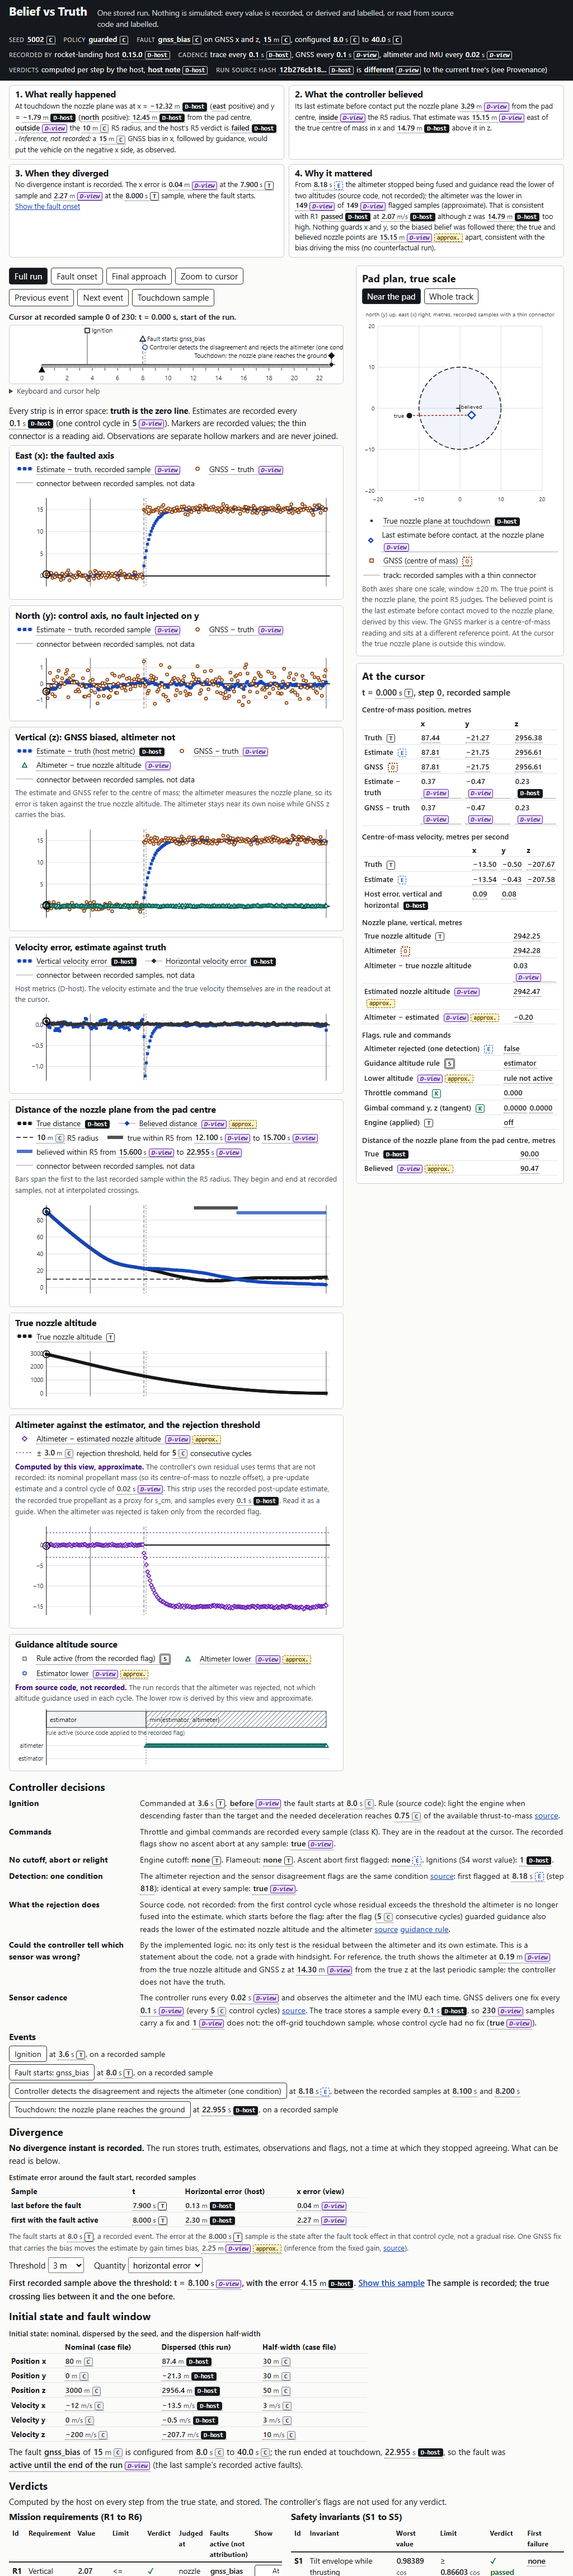
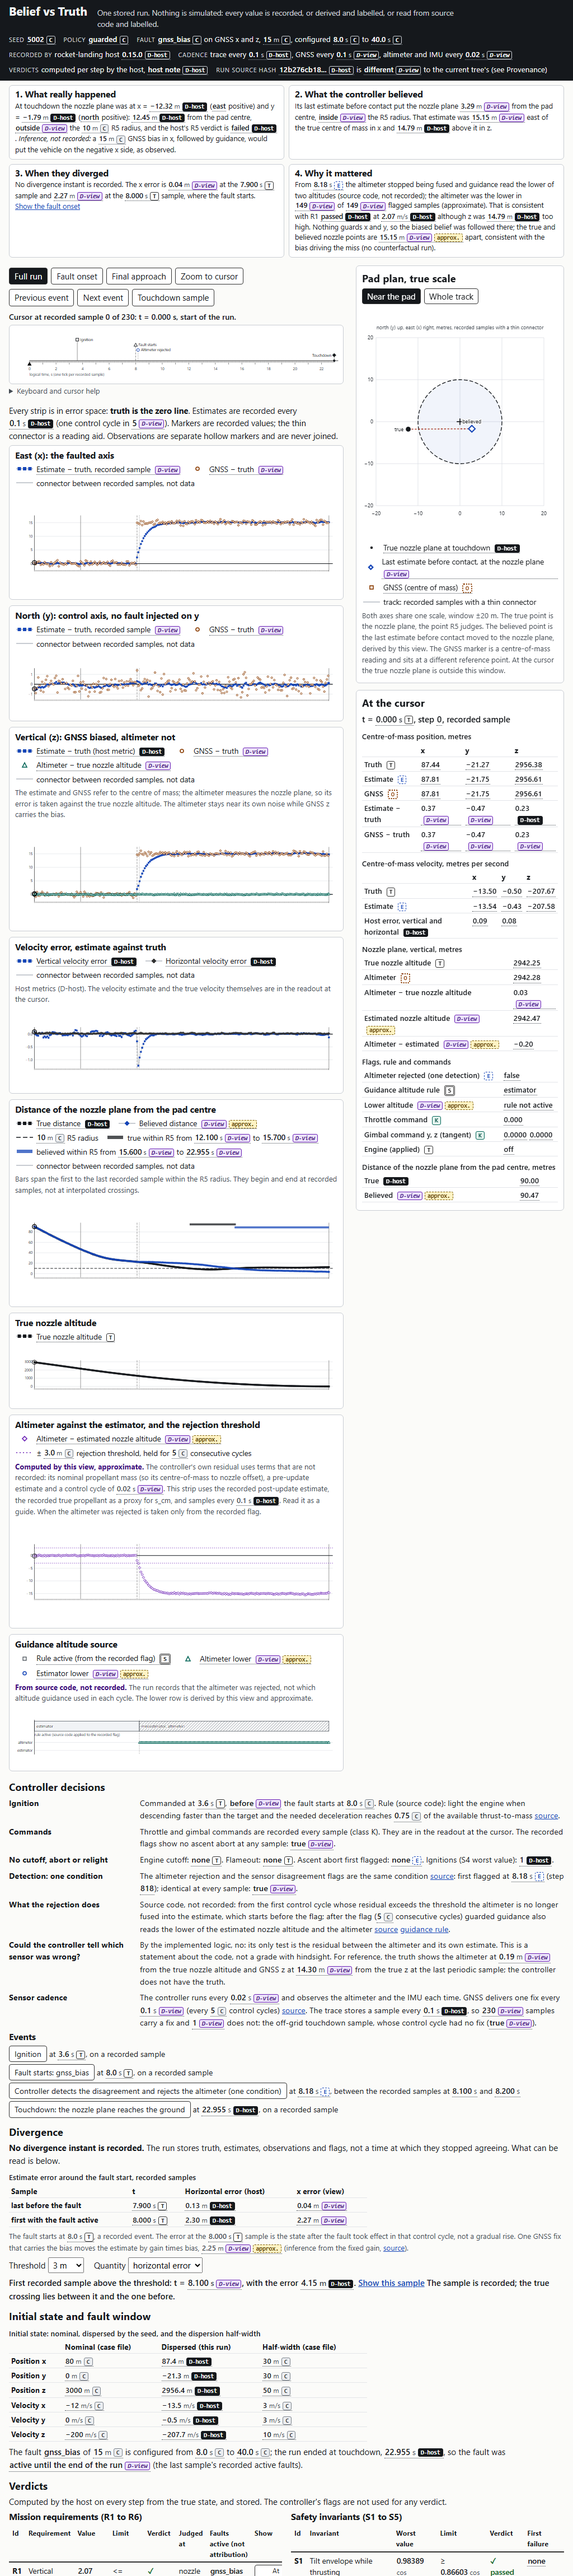
docs: iteração 2 do Belief vs Truth, capturas e estado do que fica por resolver

diff --git a/docs/m19-2-belief-truth.md b/docs/m19-2-belief-truth.md
@@ -2,7 +2,7 @@
 
 Protótipo isolado, em `spikes/m19-belief-truth/`. Não altera o Studio nem nenhum crate. Não simula nada: lê uma corrida guardada e mostra, lado a lado, o que aconteceu, o que o controlador acreditava, quando os dois divergiram e porque isso importou.
 
-Estado: iteração 1 construída e verificada no ramo `prototype/m19.2-belief-truth`, só localmente. Não foi avaliada por utilizadores nem pela revisão independente.
+Estado: iteração 2 (a última substantiva) construída e verificada no ramo `prototype/m19.2-belief-truth`, só localmente. A iteração 1 foi avaliada por um crítico de UX independente e por uma verificação de compreensão feita por agentes (não é um estudo com pessoas). A iteração 2 responde a essa avaliação e ainda não foi reavaliada. As secções abaixo descrevem a iteração 1; a secção "Iteração 2", no fim, diz o que mudou e o que ficou por resolver e prevalece sobre elas quando divergem.
 
 ## Tese
 
@@ -44,6 +44,7 @@ Cada número e cada elemento visual traz uma etiqueta. As etiquetas têm texto e
 | D-host | Derivada pelo anfitrião 0.15.0 e guardada (veredictos, métricas do anfitrião, amostra de toque interpolada) |
 | D-view | Derivada por esta vista (extrator), com a derivação nomeada |
 | S | Do código-fonte, não guardada na corrida |
+| K | Comando do controlador, guardado em `command` no traço (acelerador, cardan). Acrescentada na iteração 2, para manter separados o estado real, as observações e as decisões do controlador |
 | C | Configuração da missão em `case.json`. Acrescentada às classes pedidas, porque a configuração não é verdade nem estimativa |
 
 Mais o aviso visível **U: nenhuma**. Este estimador não tem incerteza (ganhos fixos, sem covariância). Os sigmas de `case.json` são o ruído do simulador, não a crença do controlador sobre o próprio erro, e não se desenham envelopes com eles.
@@ -85,7 +86,7 @@ O que a corrida mostra, lido da vista: antes da falha a estimativa ficou a 0,40 
 - A amostra de toque está fora da grelha. A verdade é o estado de contacto interpolado pelo anfitrião (D-host); a estimativa e a observação são do último ciclo de controlo antes do contacto, não do instante do toque. A vista rotula o ponto acreditado como "última estimativa antes do contacto".
 - O resíduo e a posição acreditada do bocal usam o substituto de `s_cm`, a estimativa guardada depois da atualização e amostras de 0,1 s. A concordância antes da falha (resíduo máximo de 0,25 m, contra um limiar de 3 m) apoia o substituto, mas não o prova para o `s_cm` do controlador.
 - Sem covariância: não há incerteza para mostrar. Sem contrafactual: não há prova de causa.
-- As linhas das estimativas unem amostras consecutivas por segmentos retos. É um traço de leitura entre valores guardados; nenhum valor entre amostras é lido ou mostrado.
+- Na iteração 1 as linhas das estimativas uniam amostras consecutivas e sugeriam uma subida gradual entre 7,9 s e 8,0 s. Foi corrigido na iteração 2 (marcador em cada amostra e conector fino, rotulado como ajuda de leitura).
 - Os factos de código ficam presos ao commit `bec7b3f`: se `landing_controller.rs` e os vizinhos mudarem, o teste falha até o extrator ser reexecutado e os factos revistos.
 
 ## Como executar
@@ -116,3 +117,41 @@ Teclado: no eixo do tempo, Esquerda e Direita avançam uma amostra, Shift com se
 - O plano mostra apenas a janela de ±20 m. Com o cursor fora da janela, o plano diz que o ponto verdadeiro está fora e não o desenha.
 - A vista não permite comparar duas corridas, nem mostra o que teria acontecido sem a falha.
 - A aproximação do resíduo poderia ser medida contra uma corrida que guarde o resíduo interno do controlador; esta não o guarda.
+
+
+## Iteração 2
+
+Resposta à avaliação da iteração 1: não enganou nas armadilhas centrais, mas a compreensão ficou abaixo do limiar porque a mecânica do controlador estava pouco explicada. Mantêm-se o SVG 2D (sem Three.js; o crítico confirma que não há vantagem material), a classe C e a formulação "gravado pelo anfitrião rocket-landing 0.15.0". A vista continua a não simular nada.
+
+Mudanças, por prioridade:
+
+1. **Marcadores por amostra (bloqueador).** As tiras das estimativas ligavam as amostras de 7,9 s e 8,0 s e desenhavam divergência antes da falha. Agora cada amostra guardada tem um marcador, o conector é fino e a legenda diz "connector between recorded samples, not data". O texto das tiras diz que as estimativas são guardadas a cada 0,1 s (um ciclo de controlo em cinco) e que os marcadores são valores guardados. Na amostra de 8,0 s a vista explica que o erro de 2,27 m é o estado depois de a falha ter feito efeito nesse ciclo e não uma subida gradual, e mostra o salto esperado de um fix GNSS com desvio (ganho vezes desvio, 2,25 m, inferência do ganho fixo).
+2. **Etiqueta de classe no toque.** `err_est_x` e `err_est_y` deixam de ser D-host na amostra de toque: ficam D-view, e a gaveta diz "computado contra a verdade interpolada pelo anfitrião". A verdade e a velocidade verdadeira dessa amostra continuam D-host.
+3. **Proveniência da build.** O `extract.py` calcula, sem git, o hash dos 20 ficheiros do `vv-rocket` pelo algoritmo de `crates/vv-rocket/src/lib.rs` (CRLF lido como LF) e compara-o com o `source_sha256` da corrida (`12b276cb...`): são **diferentes**. Difere apenas `src/landing_model.rs`. Os hashes por ficheiro da árvore do commit `3962482` estão fixados no extrator; o teste prova com git que essa árvore reproduz o hash gravado (diz-se que a árvore o reproduz, não que construiu a corrida) e que os valores fixados coincidem com o git. Todos os ficheiros de simulador citados pela vista (controlador, sensores, simulação, verdade, verificador) são idênticos aos dessa árvore. A versão não chega para identificar a build: a corrida regista a versão `0.15.0` e a árvore atual também declara `0.15.0` (`domain.json`), mas o pedido guardado tem 6 parâmetros e o catálogo atual tem mais. O replay estrito é rejeitado ("stored request is valid and canonical"); o replay de "build anterior" volta a simular com os valores por omissão atuais e concorda nos campos comparados (resultado, segurança, veredictos, canais, eventos, métricas; textos, cena e ficheiros nativos não se comparam). O teste `earlier_build.rs` foi executado de novo nesta iteração (`1 passed; 0 failed`, ver `docs/evidence/m19/belief-truth/iteration-2/cargo-earlier-build.txt`). O teste das linhas fixas do código-fonte diz agora, ao falhar, para repetir o `extract.py`.
+4. **Cadência dos sensores.** GNSS um fix por 0,1 s (cinco ciclos de controlo, `gnss_period_cycles`), altímetro e IMU a cada ciclo de 0,02 s, amostras do traço a cada 0,1 s. A amostra de toque, fora da grelha, mostra "no fix on this cycle" onde o GNSS é nulo (230 amostras com fix, uma sem).
+5. **Decisões do controlador.** Nova secção: ignição comandada às 3,6 s (antes da falha; regra do código-fonte com a fração de ignição), comandos guardados (classe K, no painel do cursor), sem corte, aborto nem reacendimento (`cutoff_t_s`, `flameout_t_s` e `ascent_abort_first` nulos; S4 igual a 1). `sensor_disagreement` e `altimeter_rejected` são a mesma condição (`landing_controller.rs`, `sensor_disagreement: ...then_some(self.rejected)`) e aparecem como uma só deteção. A rejeição significa duas coisas, do código-fonte e não guardadas: o altímetro deixa de ser fundido em cada ciclo cujo resíduo excede o limiar (começa antes da bandeira) e, depois de cinco ciclos consecutivos, o guiamento lê o mínimo entre a altitude estimada do bocal e o altímetro. Pela lógica implementada o controlador não podia saber qual dos sensores estava errado (só compara o altímetro com a própria estimativa); a vista diz que é uma afirmação sobre o código, não uma avaliação com retrospetiva.
+6. **Painel de divergência.** "No divergence instant is recorded." Mostra o início da falha, o erro nas amostras de 7,9 s e 8,0 s e um limiar escolhido pelo utilizador (1, 3, 5, 10 m) que dá a primeira amostra guardada acima dele, para o erro horizontal e para o vertical, em D-view (amostra guardada, nunca um cruzamento interpolado).
+7. **Erro de velocidade.** Tira com `err_vz` e `err_vh` do `record.json` (D-host) e as velocidades verdadeira e estimada no painel do cursor. Antes de os rotular como D-host, o extrator verifica em todas as amostras que `err_z`, `err_h`, `err_vz`, `err_vh` e `pad_distance` são as subtrações simples.
+8. **Distância à plataforma e altitude.** Tira com a distância verdadeira (D-host) e a acreditada (D-view, aproximada) do plano do bocal ao centro, com a linha do raio R5 e barras do primeiro ao último ponto guardado dentro do raio: a verdade esteve dentro entre 12,1 s e 15,7 s e saiu, a crença está dentro desde 15,6 s até ao fim. Tira da altitude verdadeira. O plano tem o botão "Whole track" para ver a trajetória inteira e não só os 20 m junto à plataforma.
+9. **Estado inicial e janela da falha.** Quadro nominal (`case.json`) contra disperso (`record.json`) e meia-largura da dispersão. A falha está configurada de 8,0 s a 40,0 s e a corrida terminou ao toque, por isso a falha esteve ativa até ao fim (lido das falhas ativas da última amostra).
+10. **Decisões ligadas aos resultados.** O cartão 4 diz que o altímetro foi o mais baixo em 149 das 149 amostras com a bandeira (aproximado) e que isso é consistente com o veredicto do R1 e a velocidade de 2,07 m/s apesar de a estimativa estar 14,79 m acima da verdade (suavizado para "consistente com"; deixou de dizer "porque"). Cada linha de requisito tem "At touchdown"; o R5 tem também "On the pad plan". R1, R2 e R5 dizem "nozzle plane" (verificado numericamente contra `verification.json` e ancorado em `landing_verify.rs`). A nota do S2 diz que é avaliado no contacto e tem o mesmo número que o R5.
+11. **Convenção de sinais.** "x = -12,32 m (east positive), y = -1,79 m (north positive)", lida do quadro de referência do `record.json`, mais uma frase marcada como inferência (um desvio de 15 m em x seguido pelo guiamento põe o veículo do lado de x negativo).
+12. **Palavras de veredicto vindas dos dados.** Nenhuma palavra de veredicto, nem "inside" ou "outside" junto ao R5, está escrita no HTML ou no JavaScript da página: vêm de um mapa único em `model.js`, escolhidas por um booleano dos dados. Um teste procura essas palavras nas fontes.
+13. **Acessibilidade.** `touch-action: pan-y` nas figuras; a legenda abre a gaveta com o índice do cursor; as células da tabela de amostras são botões com uma só paragem de tabulação e navegação por setas; a etiqueta "approx." aparece em cada valor aproximado, não só em parênteses.
+14. **Hierarquia.** Cartões mais curtos, 2x2 a 1024 px, tira x e plano da plataforma no primeiro ecrã a 1440x900, cursor inicial no início da corrida e dito como tal, ajuda de teclado recolhida, lista de eventos movida para a secção de decisões.
+15. **Pequenos acertos.** Redação da amostra de toque fora da grelha; "at recorded samples"; eventos procurados por tipo e não por índice (extrator e testes); redesenho do cursor ao arrastar agrupado por `requestAnimationFrame`.
+
+Testes novos (57 no total no ficheiro): todos os números novos rastreados e recalculados de forma independente, sem palavras de veredicto escritas, um marcador de estimativa por amostra guardada no DOM renderizado (231 em x, y e z), etiquetas D-view do erro no toque no DOM de `?sample=230`, hash da fonte contra a árvore atual e contra o commit fixado, e diferença esperada apenas em `landing_model.rs`.
+
+Verificação desta iteração: `python -m unittest tests/test_m19_belief_truth.py` (57 testes, passam), `python -m unittest discover -s tests -p "test_*.py"` (487 testes, 1 erro que já existia: `test_minimize` sem o executável `vv-lab`), `cargo fmt --check` limpo, `node --check` dos três módulos, `extract.py --check`. Capturas em `docs/evidence/m19/belief-truth/iteration-2/` (1440x900, 1024x640, 390x844, zoom do início da falha, toque com a trajetória inteira, páginas completas a 1024 e 390). O Chromium sem interface limita a largura da janela; a vista de 390 px usa um `iframe` dessa largura (`harness-390.html`).
+
+O que fica por resolver:
+
+- Nenhum estudo com pessoas: a compreensão não foi remedida depois destas mudanças.
+- Sem leitor de ecrã nem ferramenta automática de acessibilidade; o contraste foi calculado à mão na iteração 1 e as cores novas (marcadores, etiqueta "approx.", classe K) não foram recalculadas.
+- `touch-action: pan-y` e o arrastar por ponteiro não foram testados num dispositivo tátil real.
+- A 1024x640 o primeiro ecrã é o dos cartões; as tiras ficam abaixo da dobra.
+- O texto dos cartões é fixo para esta corrida (números e palavras de veredicto vêm dos dados, as frases não generalizam).
+- O resíduo, a posição acreditada e "qual das altitudes foi a menor" continuam aproximados (substituto de `s_cm`, estimativa pós-atualização, amostras de 0,1 s). A frase do cartão 4 sobre o R1 é "consistente com", sem contrafactual.
+- A primeira amostra acima de um limiar é uma amostra guardada, não o instante do cruzamento.
+- O teste de proveniência prende o hash e as linhas de cinco ficheiros Rust, do `host_sdk.rs` e do `earlier_build.rs`: qualquer alteração a esses ficheiros faz falhar o `discover` até o extrator ser repetido.
